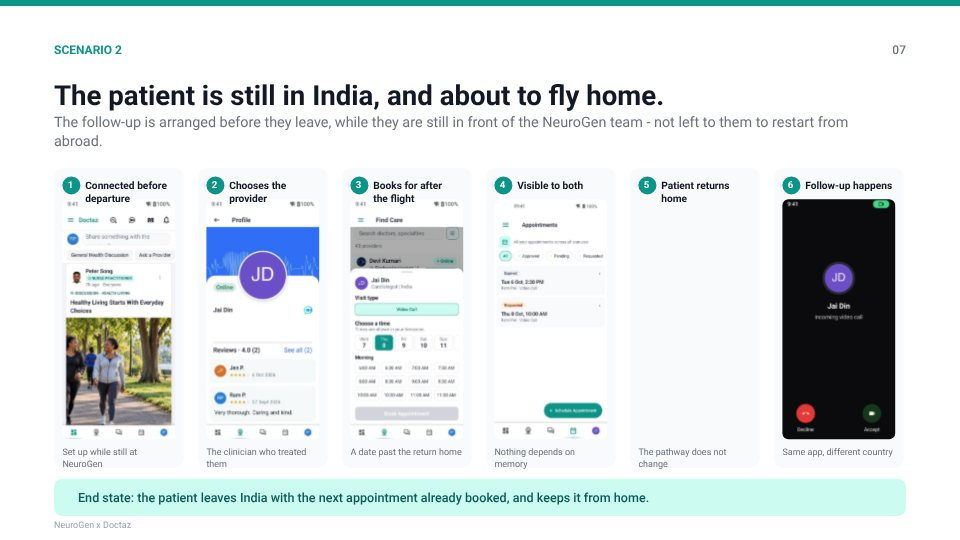
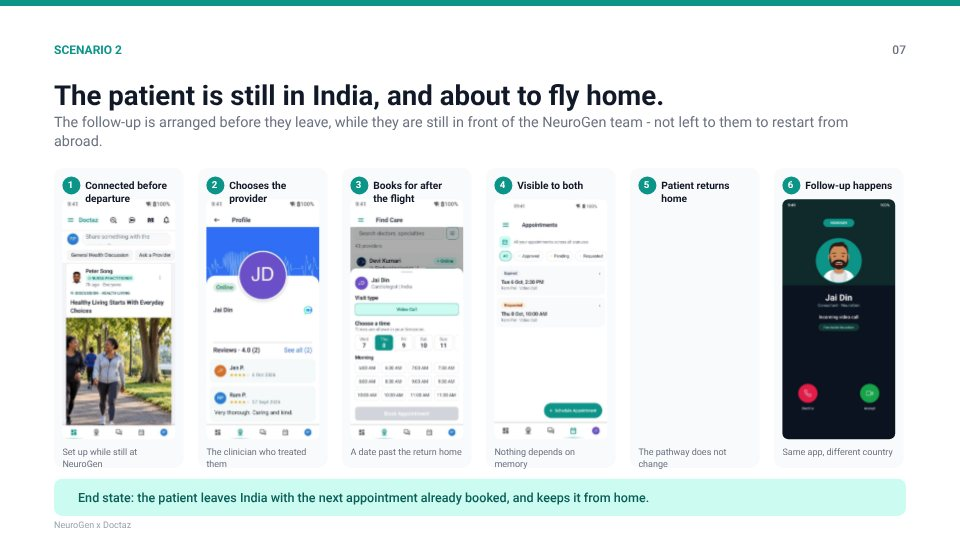
NeuroGen deck: draw the call screens instead of shipping two black rectangles
Both phones were lying flat on a desk during the recorded consult, so both cameras
genuinely saw darkness - the remote tile peaked at brightness 20/255. The call was
real and working (connected, rang in ~3s, $0.000/min inside the facility, all five
controls present), but the capture of it was two dark rectangles, which is the
weakest possible evidence on the board that matters most.

Redraw the four call screens in Penpot on a new page, 03 Call screens, to the same
layout as the real ones: incoming on the patient's phone, calling on the
clinician's, and both connected views with self-view, name chip and timer.

  People  DiceBear Avataaars - the same avatar system Penpot's Avatar Generator
          plugin offers, driven by URL so skin tone, hair and clothing are exact.
          An Indian clinician (Jai Din) and an African patient (Amara Okafor),
          obvious illustrations, so nothing reads as a photo of a real patient.
  Icons   Lucide paths drawn as vectors. The Lucide plugin cannot be used here:
          opening any second plugin detaches the MCP relay.

Named mock-*.jpg so they are never confused with the captures, and the original
dark ones are kept as the audit trail. Board 09 and the web deck's live slide now
say in plain words which parts are real and which are drawn, and each phone is
labelled by whose handset it is, since each shows the other person.

Known: the call screens use the persona Amara Okafor while the booking captures
[…]

Changed region(s): [[0.8125, 0.3556, 0.9375, 0.6222], [0.8125, 0.7111, 0.9375, 0.8]]

diff --git a/neurogen/README.md b/neurogen/README.md
@@ -22,6 +22,7 @@ rather than shipped, the board says so in red.
 |---|---|
 | Penpot deck (17 boards) | Penpot file **"NeuroGen x Doctaz - Pitch Deck"**, page `01 Pitch deck` |
 | Journey flowcharts (3 swimlane boards) | same file, page `02 Journey flows` |
+| Call screens (4 phone boards) | same file, page `03 Call screens` → `img/neurogen/mock-*.jpg` |
 | Board exports (JPEG) | `neurogen/boards/01.jpg … 17.jpg`, `f01–f03.jpg` |
 | Phone captures used in the boards | `img/neurogen/*.jpg` (440px wide, from 1080×2400 originals) |
 | Generator scripts (rebuild the deck) | `neurogen/build/` |
@@ -82,10 +83,25 @@ provider: Nothing A063), both signed into the Doctaz Demo Clinic facility, produ
 
 **Represented, and labelled as such:**
 
-- *Camera imagery in the call boards.* The call, signalling, controls and pricing are real. Both
-  phones were lying flat on a desk, so both cameras genuinely saw darkness (the remote tile peaked
-  at brightness 20/255). The media pipeline was working — frames were flowing — there was simply
-  nothing lit to see. Board 09 says so in its footnote.
+- *The four call screens are drawn, not captured* — `img/neurogen/mock-*.jpg`, designed in Penpot
+  on page `03 Call screens`. The call itself is real (it connected, rang in ~3s, priced at
+  $0.000/min, all controls present), but both phones were lying flat on a desk so both cameras
+  genuinely saw darkness — the remote tile peaked at brightness 20/255. Frames *were* flowing;
+  there was simply nothing lit to see. Rather than ship two black rectangles, the screens are
+  redrawn to the same layout with illustrated people. Board 09 and the web deck's live slide both
+  say so in plain words.
+  - People are **DiceBear Avataaars** — the same avatar system Penpot's Avatar Generator plugin
+    offers, driven directly by URL so skin tone, hair and clothing are exact. They are obvious
+    illustrations, so nothing can be mistaken for a photograph of a real patient.
+  - The control-bar icons are **Lucide** paths drawn as vectors. The Lucide Penpot plugin itself
+    cannot be used here: opening any second plugin detaches the MCP relay.
+  - The original dark captures are kept at `img/neurogen/p-12-ringing.jpg`, `p-13-incall.jpg`,
+    `d-07-calling.jpg` and `d-08-incall.jpg` as the audit trail.
+- *The patient persona in the call screens is "Amara Okafor", an international patient in Lagos.*
+  The booking captures elsewhere in the deck come from the demo account and still read
+  **"Ram Pal"**, so the two names do not match. Worth reconciling before this goes in front of
+  NeuroGen — either by relabelling the call screens, or by overlaying the persona name on the
+  booking captures.
 - *NeuroGen branding.* The demo runs in **Doctaz Demo Clinic**, a demo facility. NeuroGen appears
   as the hospital being onboarded, which is what it would be. No screenshot claims to show a live
   NeuroGen environment.
